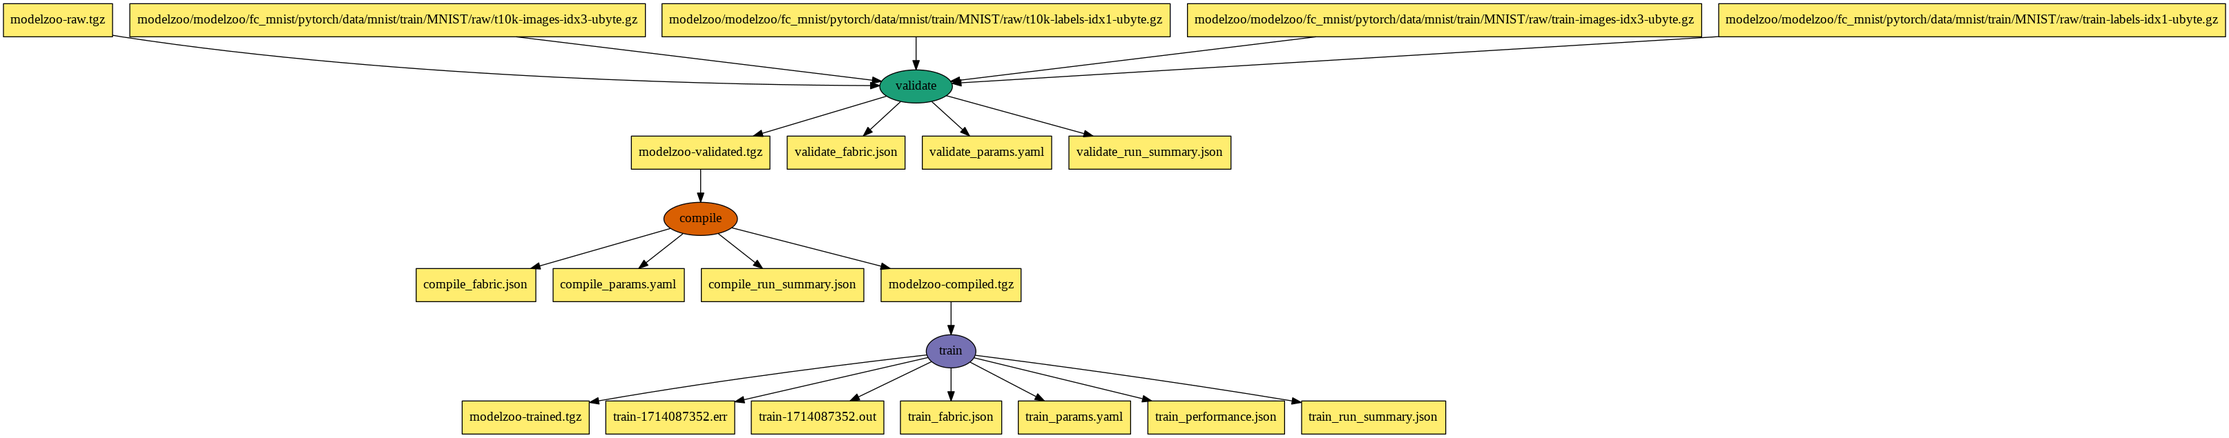
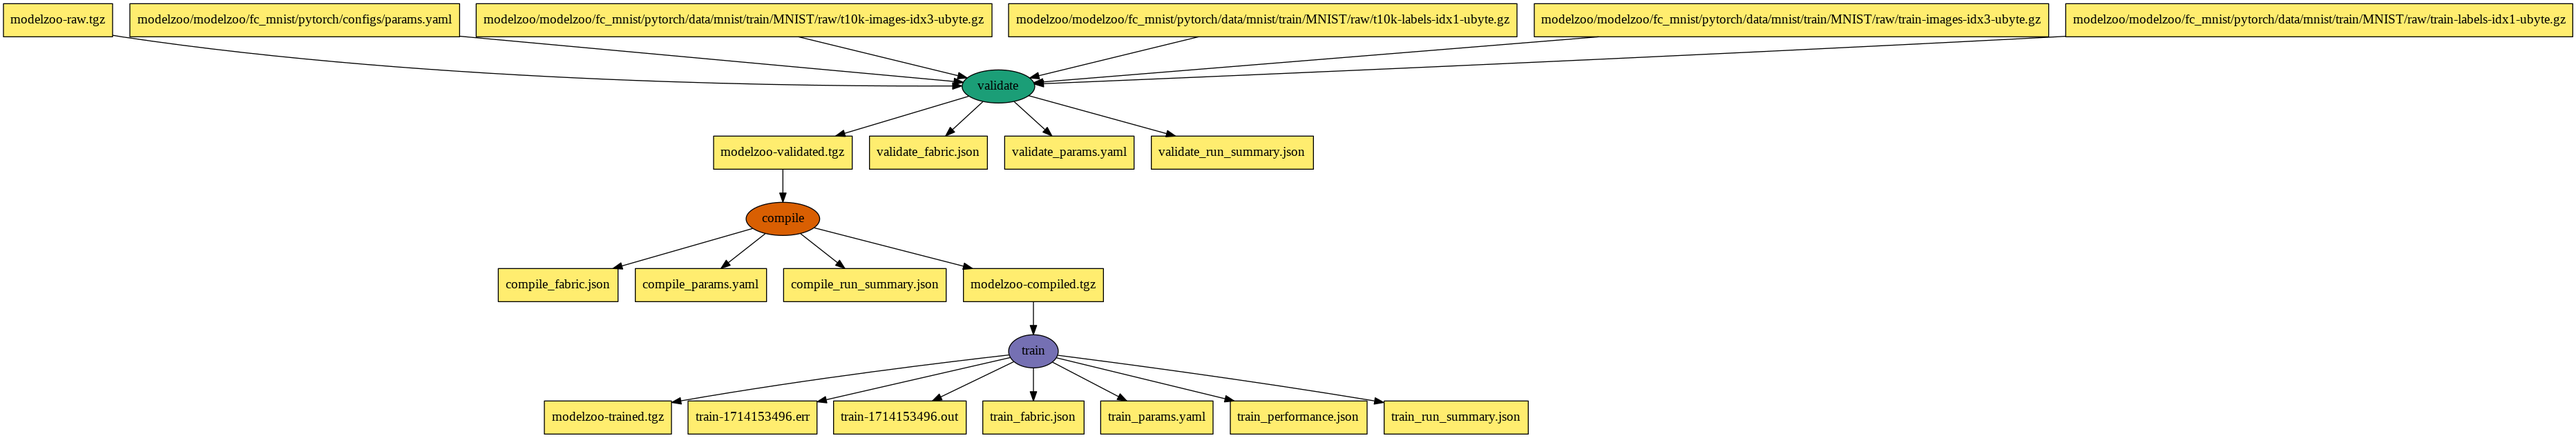
make sure that params file is removed before tarring up the modelzoo dir, as we track it as a separate file also added the params file as input for the validate job

diff --git a/pt/cerebras-modelzoo-pt.py b/pt/cerebras-modelzoo-pt.py
@@ -165,6 +165,7 @@ def generate_wf():
     validate_job = Job('validate', node_label="validate_model")
     validate_job.add_args('--mode train --validate_only --params configs/params.yaml  --model_dir model')
     validate_job.add_inputs(modelzoo_raw)
+    validate_job.add_inputs(modelzoo_config_params)
     validate_job.add_outputs(modelzoo_validated, stage_out=True)
     # add files against which we will train as inputs
     # instead of letting the code download automatically
